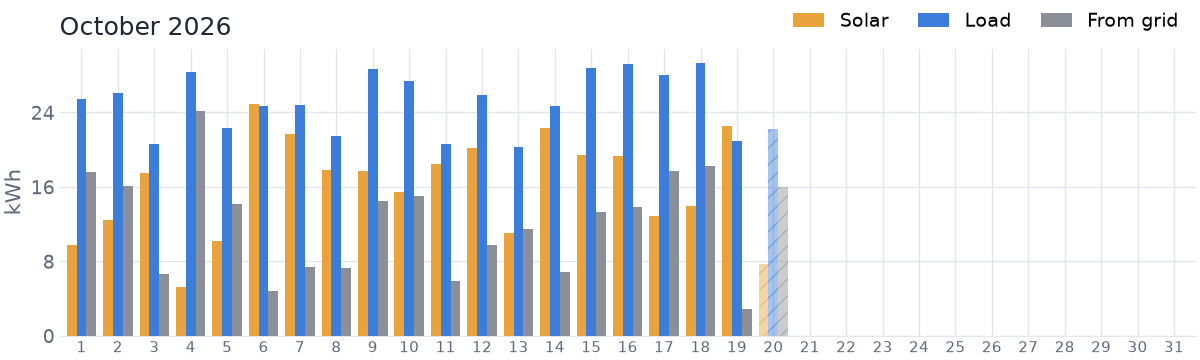
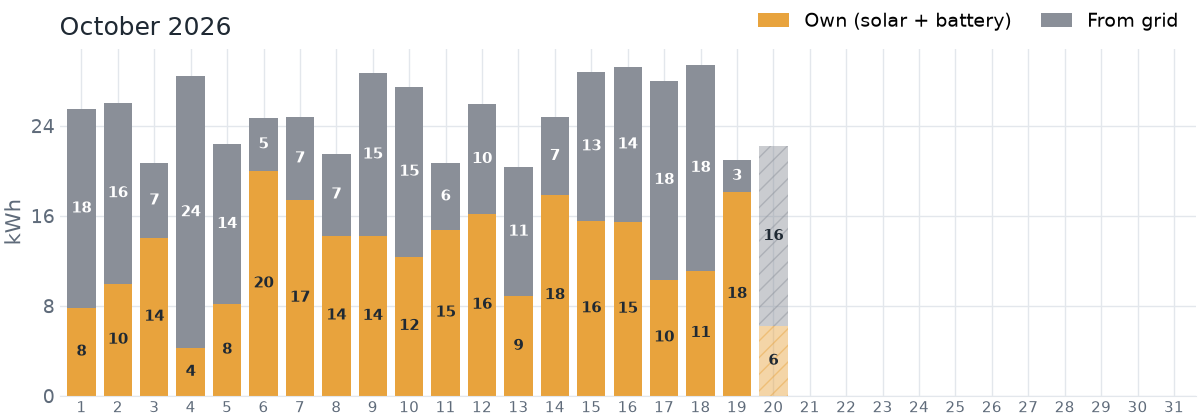
Monthly chart: one stacked bar per day (own energy + grid), kWh inside
Variant A: bar height = consumption; amber = own energy (solar directly
or via the battery), grey = bought from the grid (capped at consumption);
kWh labels inside parts that are large enough, dark on today's partial
bar. README image regenerated.

Changed region(s): [[0.0, 0.1528, 0.9867, 1.0], [0.6167, 0.0306, 0.9867, 0.0917], [0.0308, 0.0306, 0.2158, 0.1222]]

diff --git a/src/vydpobot/charts.py b/src/vydpobot/charts.py
@@ -4,7 +4,7 @@ import calendar
 import io
 import math
 from collections.abc import Callable
-from datetime import datetime, timedelta
+from datetime import date, datetime, timedelta
 from zoneinfo import ZoneInfo
 
 import matplotlib
@@ -265,6 +265,55 @@ def render_chart(
     return buf.getvalue()
 
 
+MONTH_BAR_W = 0.78
+MONTH_LABEL_MIN = 0.08  # write the kWh inside a part only if it is >= 8% of the tallest bar
+
+
+def month_split(d: DayStats) -> tuple[float, float]:
+    """(own, from grid) parts of a day's consumption. Grid energy above the consumption went into
+    the battery, so the grid part is capped at the consumption."""
+    home = d.home_kwh or 0.0
+    grid = min(d.grid_import_kwh or 0.0, home)
+    return home - grid, grid
+
+
+def _month_bars(ax: Axes, by_day: dict[int, DayStats], today: date, lang: Lang) -> None:
+    xs = sorted(by_day)
+    parts = {x: month_split(by_day[x]) for x in xs}
+    tallest = max((own + grid for own, grid in parts.values()), default=0.0)
+    for label, color, ink, pick in (
+        ("month.own", C_PV, INK, lambda o, g: (0.0, o)),
+        ("month.grid", C_GRID, "white", lambda o, g: (o, g)),
+    ):
+        for partial in (False, True):
+            sel = [x for x in xs if (by_day[x].day == today) is partial]
+            if not sel:
+                continue
+            bottoms, heights = zip(*(pick(*parts[x]) for x in sel), strict=True)
+            style = {"alpha": 0.45, "hatch": "//", "edgecolor": color, "linewidth": 0}
+            ax.bar(
+                sel,
+                heights,
+                MONTH_BAR_W,
+                bottom=bottoms,
+                color=color,
+                label=None if partial else t(lang, label),
+                **(style if partial else {}),
+            )
+            for x, b, h in zip(sel, bottoms, heights, strict=True):
+                if tallest and h >= MONTH_LABEL_MIN * tallest:
+                    ax.text(
+                        x,
+                        b + h / 2,
+                        f"{h:.0f}",
+                        ha="center",
+                        va="center",
+                        fontsize=FONT - 4.5,
+                        color=INK if partial else ink,  # white is unreadable on a light bar
+                        fontweight="bold",
+                    )
+
+
 def render_month_chart(
     days: list[DayStats],
     *,
@@ -274,17 +323,19 @@ def render_month_chart(
     lang: Lang,
     now: datetime | None = None,
 ) -> bytes:
-    """Grouped daily bars (solar, consumption, from grid) for one month; today is hatched."""
+    """One stacked bar per day = consumption: own energy (solar, directly or via the battery)
+    at the bottom, bought from the grid on top, kWh inside each part. Today is hatched."""
     today = (now or datetime.now(tz)).astimezone(tz).date()
     n = calendar.monthrange(year, month)[1]
-    by_day = {d.day.day: d for d in days if (d.day.year, d.day.month) == (year, month)}
-    # Compact strip (~1200x360): the month chart is read at a glance, not studied.
-    fig = Figure(figsize=(12, 3.6), dpi=100, facecolor="white", layout="constrained")
+    by_day = {
+        d.day.day: d
+        for d in days
+        if (d.day.year, d.day.month) == (year, month) and d.home_kwh is not None
+    }
+    fig = Figure(figsize=(12, 4.2), dpi=100, facecolor="white", layout="constrained")
     title = f"{month_name(lang, month)} {year}"
-    if not any(
-        v is not None for d in by_day.values() for v in (d.pv_kwh, d.home_kwh, d.grid_import_kwh)
-    ):
-        ax = fig.add_subplot(111)
+    ax = fig.add_subplot(111)
+    if not by_day:
         ax.set_axis_off()
         ax.text(
             0.5,
@@ -298,38 +349,8 @@ def render_month_chart(
         )
         fig.suptitle(title, fontsize=FONT + 3, color=INK, x=0.02, ha="left")
     else:
-        ax = fig.add_subplot(111)
         _style(ax, t(lang, "month.axis"))
-        width = 0.27
-        series = (
-            ("chart.pv", C_PV, lambda d: d.pv_kwh, -width),
-            ("chart.load", C_LOAD, lambda d: d.home_kwh, 0.0),
-            ("month.grid", C_GRID, lambda d: d.grid_import_kwh, width),
-        )
-        for label, color, get, offset in series:
-            xs, hs, partial_x, partial_h = [], [], [], []
-            for day, d in by_day.items():
-                v = get(d)
-                if v is None:
-                    continue
-                if d.day == today:
-                    partial_x.append(day + offset)
-                    partial_h.append(v)
-                else:
-                    xs.append(day + offset)
-                    hs.append(v)
-            ax.bar(xs, hs, width=width, color=color, label=t(lang, label))
-            if partial_x:  # today is incomplete: lighter and hatched
-                ax.bar(
-                    partial_x,
-                    partial_h,
-                    width=width,
-                    color=color,
-                    alpha=0.45,
-                    hatch="//",
-                    edgecolor=color,
-                    linewidth=0,
-                )
+        _month_bars(ax, by_day, today, lang)
         ax.set_xlim(0.4, n + 0.6)
         ax.set_xticks(range(1, n + 1))
         ax.tick_params(axis="x", labelsize=FONT - 4)
@@ -337,7 +358,7 @@ def render_month_chart(
         ax.legend(  # top-right, on the title's line, to save height
             loc="lower right",
             bbox_to_anchor=(1.0, 1.0),
-            ncol=3,
+            ncol=2,
             frameon=False,
             fontsize=FONT - 1,
             columnspacing=1.5,

diff --git a/tests/test_charts.py b/tests/test_charts.py
@@ -94,3 +94,44 @@ def test_summarize_ignores_gaps_and_none():
 def test_summarize_empty_and_unsorted():
     assert set(summarize([]).values()) == {0.0}
     assert summarize(list(reversed(const(1))))["pv_kwh"] == pytest.approx(1.0)
+
+
+# ------------------------------------------------------------------ monthly chart (variant A)
+
+
+def test_month_split_own_and_grid():
+    from datetime import date
+
+    from vydpobot.charts import month_split
+    from vydpobot.models import DayStats
+
+    # real 1 Oct 2026: consumption 82.3 = own 50.0 + grid 32.3
+    own, grid = month_split(DayStats(date(2026, 10, 1), 53.2, 82.3, 32.3, 0.0, 29.8, 26.6))
+    assert round(own, 1) == 50.0 and grid == 32.3
+    # grid above consumption (battery charged from the grid): grid capped, own 0
+    assert month_split(DayStats(date(2026, 10, 18), 0.0, 59.9, 70.0)) == (0.0, 59.9)
+    assert month_split(DayStats(date(2026, 10, 2), None, 10.0, None)) == (10.0, 0.0)
+
+
+def test_month_chart_one_bar_per_day_with_kwh_labels():
+    from datetime import date
+
+    import matplotlib
+
+    matplotlib.use("Agg")
+    from matplotlib.figure import Figure
+
+    from vydpobot.charts import _month_bars
+    from vydpobot.models import DayStats
+
+    days = {
+        1: DayStats(date(2026, 10, 1), 53.2, 82.3, 32.3),
+        2: DayStats(date(2026, 10, 2), 0.0, 60.0, 59.0),  # own 1 kWh: too small for a label
+    }
+    ax = Figure().add_subplot(111)
+    _month_bars(ax, days, date(2026, 10, 20), "uk")
+    labels = sorted(t.get_text() for t in ax.texts)
+    assert labels == ["32", "50", "59"]  # 1 kWh part has no label
+    assert {p.get_x() + p.get_width() / 2 for p in ax.patches} == {1.0, 2.0}  # one bar per day
+    legend = [h.get_label() for h in ax.containers]
+    assert legend == ["Власна (сонце + батарея)", "З мережі"]

diff --git a/src/vydpobot/i18n.py b/src/vydpobot/i18n.py
@@ -193,6 +193,7 @@ MESSAGES: dict[Lang, dict[str, str]] = {
         "month.self": "🔋 Self-sufficiency: {v}",
         "month.axis": "kWh",
         "month.grid": "From grid",
+        "month.own": "Own (solar + battery)",
         "month.invalid": "Enter a month as YYYY-MM that is not in the future, e.g. /month 2026-09",
         "month.error": "Could not get the monthly statistics. Please try again later.",
         "month.unsupported": "Monthly statistics need SOLARMAN_BACKEND=openapi.",
@@ -360,6 +361,7 @@ MESSAGES: dict[Lang, dict[str, str]] = {
         "month.self": "🔋 Самозабезпечення: {v}",
         "month.axis": "кВт·год",
         "month.grid": "З мережі",
+        "month.own": "Власна (сонце + батарея)",
         "month.invalid": ("Вкажіть місяць як РРРР-ММ, не з майбутнього, наприклад /month 2026-09"),
         "month.error": "Не вдалося отримати статистику за місяць. Спробуйте пізніше.",
         "month.unsupported": "Статистика за місяць потребує SOLARMAN_BACKEND=openapi.",

diff --git a/README.md b/README.md
@@ -26,7 +26,7 @@ SUN-xK-SG04LP3) through the Solarman Cloud OpenAPI. It runs in Docker on a small
   three times in a row, and tells you when it is back.
 - `/graph [hours]`: chart of PV, load, battery, grid and SOC (1..48 h, default 24) with an
   energy summary.
-- `/month [YYYY-MM]`: grouped daily bars (solar, consumption, from grid) and monthly totals with
+- `/month [YYYY-MM]`: one bar per day for consumption (own energy and grid parts) and monthly totals with
   the self-sufficiency percentage; a report of the previous month is posted automatically on the
   1st (OpenAPI backend). See "Monthly statistics".
 - A monthly rollover: the old live message becomes the monthly report and a new live message is
@@ -548,8 +548,11 @@ does not send a notification.
 
 ## Monthly statistics
 
-`/month` (allowed chats) shows grouped daily bars for solar generation, home consumption and
-energy bought from the grid, plus a caption with the totals. `/month 2026-09` shows another
+`/month` (allowed chats) shows one bar per day. The bar height is the consumption of the day. The
+bottom part (amber) is the own energy: solar, directly or through the battery. The top part (grey)
+is the energy bought from the grid. The kWh value is written inside each part when it is large
+enough. Grid energy above the consumption went into the battery, so the grid part is capped at the
+consumption. A caption shows the totals. `/month 2026-09` shows another
 month; future months are rejected. Today's bars are drawn lighter and hatched because the day is
 not finished.
 

diff --git a/docs/SPEC.md b/docs/SPEC.md
@@ -345,9 +345,12 @@ needs the "Delete messages" right).
   propagates.
 - `month_summary(days)`: totals (None = 0), `days_with_data`, `self_sufficiency = 1 - import/home`
   clamped 0..1 (None if home is 0), `pv_share = pv/home` capped at 1.
-- `charts.render_month_chart(days, *, year, month, tz, lang, now=None)`: Figure only, 12x8 in at
-  100 dpi; grouped bars PV (C_PV), home (C_LOAD), grid import (C_GRID); x = day numbers 1..N;
-  title "<Month> <year>"; y axis kWh / кВт·год; legend; today hatched with alpha 0.45; no data ->
+- `charts.render_month_chart(days, *, year, month, tz, lang, now=None)`: Figure only, 12x4.2 in
+  at 100 dpi. One stacked bar per day = `home_kwh`: `month_split(d)` -> own = home − grid (C_PV,
+  bottom, legend `month.own`) and grid = min(grid_import, home) (C_GRID, top, `month.grid`). The
+  kWh integer is written inside a part when it is >= 8% of the tallest bar (INK on own, white on
+  grid, INK on today's partial bar). x = day numbers 1..N; title "<Month> <year>" with the legend
+  on the same line; y axis kWh / кВт·год; today hatched with alpha 0.45; no data ->
   `chart.no_data` text.
 - Caption (HTML-escaped): `📅 Month Year[ (1–D)]`, ☀ Solar, 🏠 Consumption, 🔌 From grid,
   `↗ To grid` only if > 0, 🔋 Self-sufficiency. The range only for the current month.
